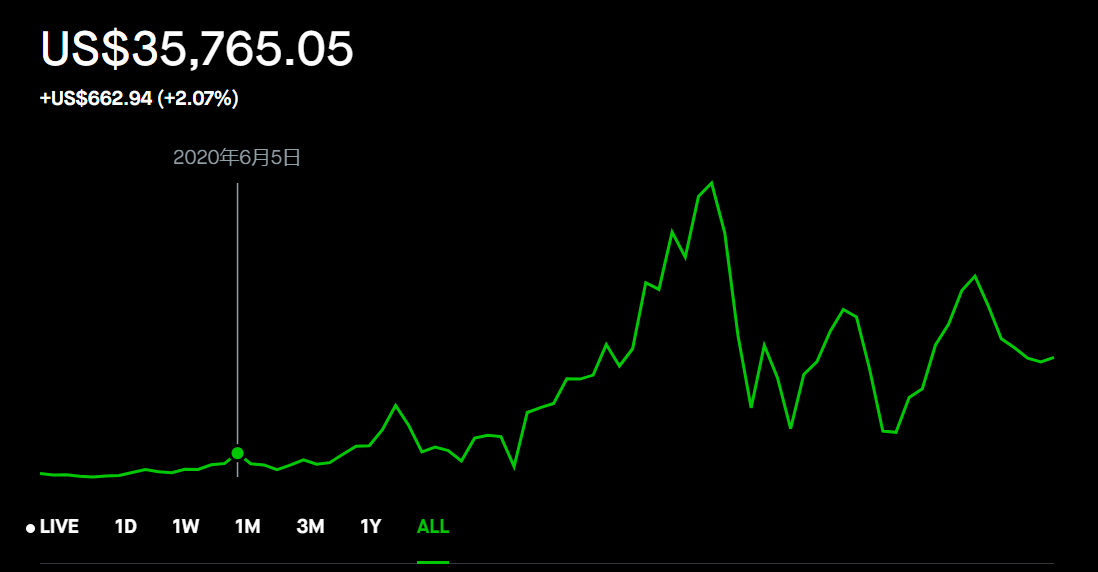
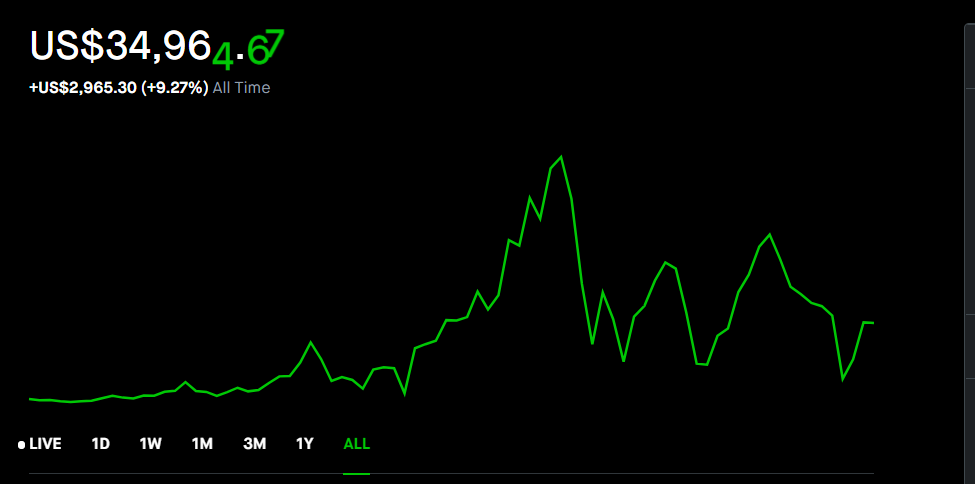
daily update

diff --git a/Readme.md b/Readme.md
@@ -1,4 +1,4 @@
-# Stock Market Thing (我的股市思考)
+# Stock Market Trading Daily (我的股票交易日记)
 
 ## Intro
 
@@ -12,9 +12,9 @@ I will list my [estimate value](#Estimate-Value) for popular stocks
 
 I also note down [what I though daily](#Trading-History) with market performance
 
-炒股目标： 一年内Robinhood资产增加50%
+炒股目标： 一年内(2022/08)Robinhood资产增加50%
 
-- My total return (2021/08/10)
+- My total return (2021/09/06)
 
 ![return](imgs/Ret0810.png)
 
@@ -24,7 +24,6 @@ I also note down [what I though daily](#Trading-History) with market performance
 
 ## To Do List
 
-* 持续关注基建股 IFRA@[34-36]
 * 遇到反弹减仓中概股，不再加仓中概股
     * NIO -20@[50-55]
     * BILI -10@[95-100]
@@ -134,5 +133,10 @@ MRNA 这几个月涨了好几倍，看得十分眼红，但是不熟悉医疗领
 持仓中概股持续亏损，昨日出现触底形象，不知后市如何
 
 
+
+---
+2021/09/02
+
+关注股市不多，最近大盘一直增长，也不知加仓什么股票，美联储继续放水，到年底利率应该比较稳定
 
 ---
